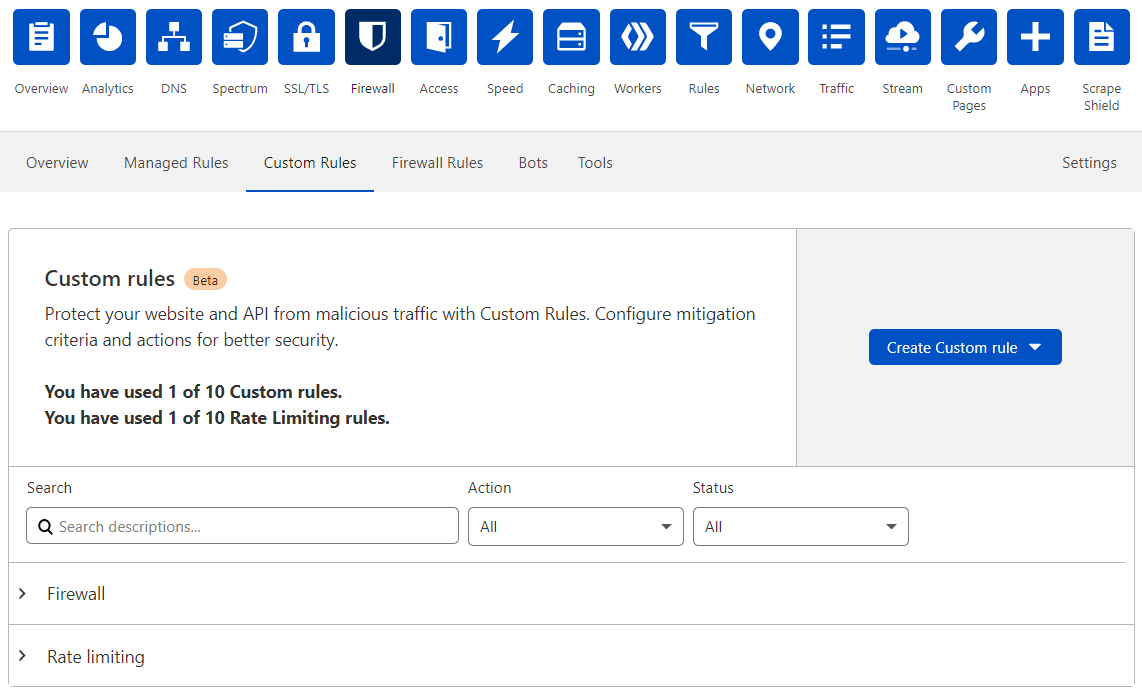
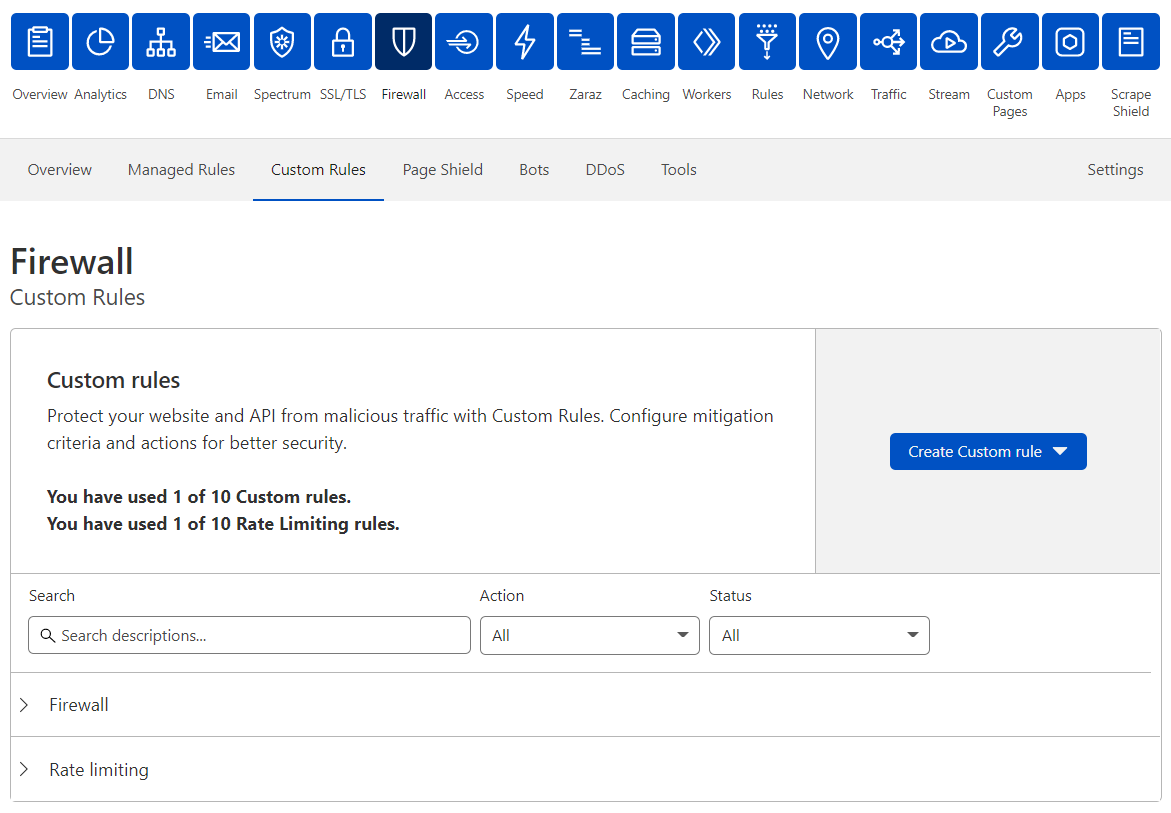
Custom Rules no longer in beta (#3133)

diff --git a/products/waf/src/content/index.md b/products/waf/src/content/index.md
@@ -18,7 +18,7 @@ The Cloudflare Web Application Firewall (WAF) provides both automatic protection
 
 ## Main features
 
-* **Custom Rules (Beta)**: Create your own Custom Firewall Rules to protect your website and your APIs from malicious incoming traffic.
+* **Custom Rules**: Create your own Custom Firewall Rules to protect your website and your APIs from malicious incoming traffic.
 * **Rate Limiting rules**: Define rate limits for incoming requests matching an expression, and the action to take when those rate limits are reached.
 * **WAF Managed Rulesets**: Enable the pre-configured Managed Rulesets to get immediate protection. These rulesets are regularly updated, offering advanced zero-day vulnerability protections. Adjust the behavior of managed rules, choosing from several possible actions.
 * **Exposed Credential Checks**: Monitor and block use of stolen/exposed credentials for account takeover.

diff --git a/products/waf/src/content/custom-rules/index.md b/products/waf/src/content/custom-rules/index.md
@@ -3,7 +3,7 @@ pcx-content-type: concept
 order: 3
 ---
 
-# Custom Rules (Beta)
+# Custom Rules
 
 Custom Rules allow you to protect your website and your APIs from malicious or excessive incoming traffic.
 
